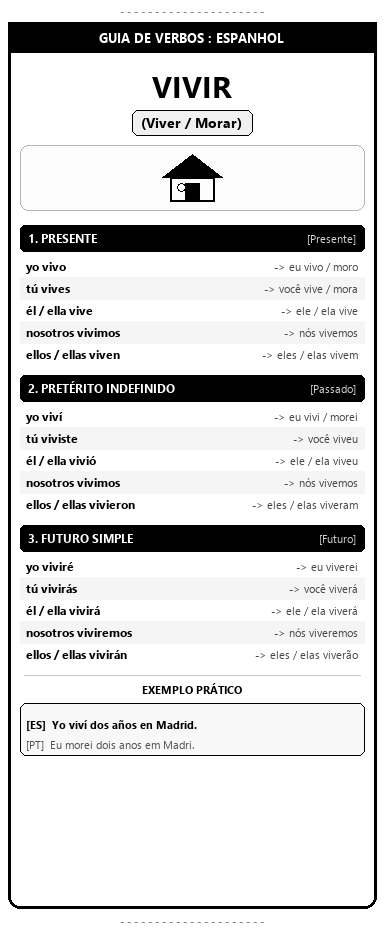
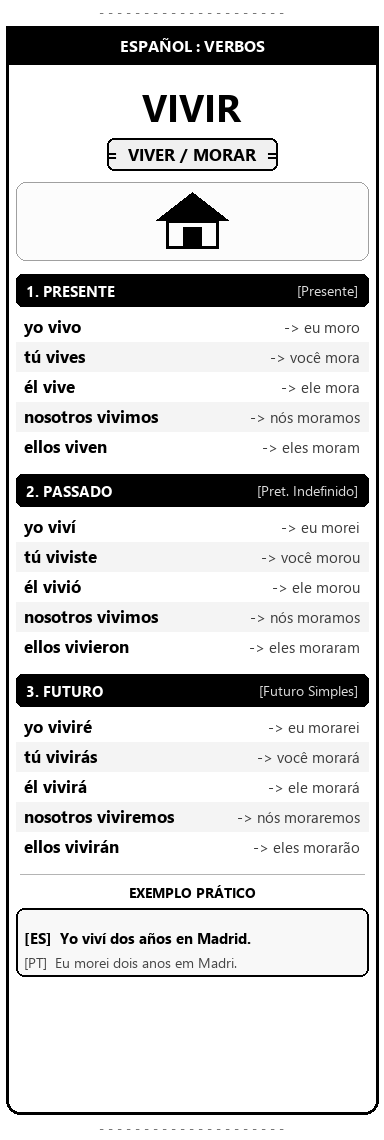
style: increase font sizes and boldness on verb strips for thermal legibility

Changed region(s): [[0.0, 0.0312, 1.0, 0.9978]]

diff --git a/generate_verb_strip.py b/generate_verb_strip.py
@@ -1,6 +1,7 @@
 """
 Gerador de Tiras de Estudo de Verbos em Espanhol para Phomemo M02
-384px de largura (203 DPI)
+Versão com FONTES GRANDES e alta legibilidade térmica.
+Largura: 384px (203 DPI)
 """
 
 from PIL import Image, ImageDraw, ImageFont
@@ -21,84 +22,84 @@ def get_font(size: int, bold: bool = False):
 VERBS_DATA = {
     "hablar": {
         "verb": "HABLAR",
-        "pt": "Falar",
+        "pt": "FALAR",
         "icon": "speech",
         "present": [
             ("yo hablo", "eu falo"),
             ("tú hablas", "você fala"),
-            ("él / ella habla", "ele / ela fala"),
+            ("él habla", "ele fala"),
             ("nosotros hablamos", "nós falamos"),
-            ("ellos / ellas hablan", "eles / elas falam")
+            ("ellos hablan", "eles falam")
         ],
         "past": [
             ("yo hablé", "eu falei"),
             ("tú hablaste", "você falou"),
-            ("él / ella habló", "ele / ela falou"),
+            ("él habló", "ele falou"),
             ("nosotros hablamos", "nós falamos"),
-            ("ellos / ellas hablaron", "eles / elas falaram")
+            ("ellos hablaron", "eles falaram")
         ],
         "future": [
             ("yo hablaré", "eu falarei"),
             ("tú hablarás", "você falará"),
-            ("él / ella hablará", "ele / ela falará"),
+            ("él hablará", "ele falará"),
             ("nosotros hablaremos", "nós falaremos"),
-            ("ellos / ellas hablarán", "eles / elas falarão")
+            ("ellos hablarán", "eles falarão")
         ],
-        "example_es": "Ayer hablé con María sobre eso.",
-        "example_pt": "Ontem falei com a Maria sobre isso."
+        "example_es": "Ayer hablé con María.",
+        "example_pt": "Ontem falei com a Maria."
     },
     "comer": {
         "verb": "COMER",
-        "pt": "Comer",
+        "pt": "COMER",
         "icon": "food",
         "present": [
             ("yo como", "eu como"),
             ("tú comes", "você come"),
-            ("él / ella come", "ele / ela come"),
+            ("él come", "ele come"),
             ("nosotros comemos", "nós comemos"),
-            ("ellos / ellas comen", "eles / elas comem")
+            ("ellos comen", "eles comem")
         ],
         "past": [
             ("yo comí", "eu comi"),
             ("tú comiste", "você comeu"),
-            ("él / ella comió", "ele / ela comeu"),
+            ("él comió", "ele comeu"),
             ("nosotros comimos", "nós comemos"),
-            ("ellos / ellas comieron", "eles / elas comeram")
+            ("ellos comieron", "eles comeram")
         ],
         "future": [
             ("yo comeré", "eu comerei"),
             ("tú comerás", "você comerá"),
-            ("él / ella comerá", "ele / ela comerá"),
+            ("él comerá", "ele comerá"),
             ("nosotros comeremos", "nós comeremos"),
-            ("ellos / ellas comerán", "eles / elas comerão")
+            ("ellos comerán", "eles comerão")
         ],
-        "example_es": "Mañana comeremos paella juntos.",
-        "example_pt": "Amanhã comeremos paella juntos."
+        "example_es": "Mañana comeremos paella.",
+        "example_pt": "Amanhã comeremos paella."
     },
     "vivir": {
         "verb": "VIVIR",
-        "pt": "Viver / Morar",
+        "pt": "VIVER / MORAR",
         "icon": "house",
         "present": [
-            ("yo vivo", "eu vivo / moro"),
-            ("tú vives", "você vive / mora"),
-            ("él / ella vive", "ele / ela vive"),
-            ("nosotros vivimos", "nós vivemos"),
-            ("ellos / ellas viven", "eles / elas vivem")
+            ("yo vivo", "eu moro"),
+            ("tú vives", "você mora"),
+            ("él vive", "ele mora"),
+            ("nosotros vivimos", "nós moramos"),
+            ("ellos viven", "eles moram")
         ],
         "past": [
-            ("yo viví", "eu vivi / morei"),
-            ("tú viviste", "você viveu"),
-            ("él / ella vivió", "ele / ela viveu"),
-            ("nosotros vivimos", "nós vivemos"),
-            ("ellos / ellas vivieron", "eles / elas viveram")
+            ("yo viví", "eu morei"),
+            ("tú viviste", "você morou"),
+            ("él vivió", "ele morou"),
+            ("nosotros vivimos", "nós moramos"),
+            ("ellos vivieron", "eles moraram")
         ],
         "future": [
-            ("yo viviré", "eu viverei"),
-            ("tú vivirás", "você viverá"),
-            ("él / ella vivirá", "ele / ela viverá"),
-            ("nosotros viviremos", "nós viveremos"),
-            ("ellos / ellas vivirán", "eles / elas viverão")
+            ("yo viviré", "eu morarei"),
+            ("tú vivirás", "você morará"),
+            ("él vivirá", "ele morará"),
+            ("nosotros viviremos", "nós moraremos"),
+            ("ellos vivirán", "eles morarão")
         ],
         "example_es": "Yo viví dos años en Madrid.",
         "example_pt": "Eu morei dois anos em Madri."
@@ -106,118 +107,113 @@ VERBS_DATA = {
 }
 
 def draw_speech_icon(draw: ImageDraw.ImageDraw, x: int, y: int):
-    # Balão 1 (fundo branco, borda preta)
-    draw.rounded_rectangle([(x, y), (x + 55, y + 36)], radius=8, outline=(0, 0, 0), width=2, fill=(255, 255, 255))
-    draw.polygon([(x + 12, y + 35), (x + 18, y + 44), (x + 24, y + 35)], fill=(255, 255, 255), outline=(0, 0, 0))
-    draw.line([(x + 13, y + 35), (x + 23, y + 35)], fill=(255, 255, 255), width=2)
-    # Linhas de texto no balão 1
-    draw.line([(x + 10, y + 13), (x + 45, y + 13)], fill=(0, 0, 0), width=2)
-    draw.line([(x + 10, y + 21), (x + 35, y + 21)], fill=(0, 0, 0), width=2)
+    # Balão 1
+    draw.rounded_rectangle([(x, y), (x + 60, y + 40)], radius=9, outline=(0, 0, 0), width=3, fill=(255, 255, 255))
+    draw.polygon([(x + 14, y + 38), (x + 20, y + 50), (x + 28, y + 38)], fill=(255, 255, 255), outline=(0, 0, 0))
+    draw.line([(x + 15, y + 38), (x + 27, y + 38)], fill=(255, 255, 255), width=3)
+    draw.line([(x + 12, y + 14), (x + 48, y + 14)], fill=(0, 0, 0), width=3)
+    draw.line([(x + 12, y + 24), (x + 38, y + 24)], fill=(0, 0, 0), width=3)
 
-    # Balão 2 (fundo preto sólido)
-    draw.rounded_rectangle([(x + 40, y + 14), (x + 85, y + 46)], radius=7, outline=(0, 0, 0), width=2, fill=(0, 0, 0))
-    draw.polygon([(x + 65, y + 45), (x + 72, y + 53), (x + 76, y + 45)], fill=(0, 0, 0))
-    # Linhas brancas no balão 2
-    draw.line([(x + 48, y + 25), (x + 77, y + 25)], fill=(255, 255, 255), width=2)
-    draw.line([(x + 48, y + 33), (x + 68, y + 33)], fill=(255, 255, 255), width=2)
+    # Balão 2
+    draw.rounded_rectangle([(x + 44, y + 15), (x + 95, y + 50)], radius=8, outline=(0, 0, 0), width=3, fill=(0, 0, 0))
+    draw.polygon([(x + 72, y + 49), (x + 80, y + 60), (x + 86, y + 49)], fill=(0, 0, 0))
+    draw.line([(x + 52, y + 26), (x + 86, y + 26)], fill=(255, 255, 255), width=3)
+    draw.line([(x + 52, y + 36), (x + 76, y + 36)], fill=(255, 255, 255), width=3)
 
 def draw_food_icon(draw: ImageDraw.ImageDraw, x: int, y: int):
-    cx, cy = x + 45, y + 28
-    draw.ellipse([(cx - 24, cy - 24), (cx + 24, cy + 24)], outline=(0, 0, 0), width=2)
-    draw.ellipse([(cx - 16, cy - 16), (cx + 16, cy + 16)], outline=(0, 0, 0), width=1)
+    cx, cy = x + 50, y + 32
+    draw.ellipse([(cx - 28, cy - 28), (cx + 28, cy + 28)], outline=(0, 0, 0), width=3)
+    draw.ellipse([(cx - 18, cy - 18), (cx + 18, cy + 18)], outline=(0, 0, 0), width=2)
     
-    gx = cx - 35
-    draw.line([(gx, cy - 20), (gx, cy + 20)], fill=(0, 0, 0), width=2)
-    draw.line([(gx - 4, cy - 20), (gx + 4, cy - 20)], fill=(0, 0, 0), width=2)
-    draw.line([(gx - 4, cy - 20), (gx - 4, cy - 10)], fill=(0, 0, 0), width=1)
-    draw.line([(gx + 4, cy - 20), (gx + 4, cy - 10)], fill=(0, 0, 0), width=1)
+    gx = cx - 42
+    draw.line([(gx, cy - 25), (gx, cy + 25)], fill=(0, 0, 0), width=3)
+    draw.line([(gx - 5, cy - 25), (gx + 5, cy - 25)], fill=(0, 0, 0), width=3)
+    draw.line([(gx - 5, cy - 25), (gx - 5, cy - 12)], fill=(0, 0, 0), width=2)
+    draw.line([(gx + 5, cy - 25), (gx + 5, cy - 12)], fill=(0, 0, 0), width=2)
     
-    fx = cx + 35
-    draw.line([(fx, cy - 20), (fx, cy + 20)], fill=(0, 0, 0), width=2)
-    draw.arc([(fx - 4, cy - 22), (fx + 4, cy - 6)], start=270, end=90, fill=(0, 0, 0), width=2)
+    fx = cx + 42
+    draw.line([(fx, cy - 25), (fx, cy + 25)], fill=(0, 0, 0), width=3)
+    draw.arc([(fx - 5, cy - 28), (fx + 5, cy - 8)], start=270, end=90, fill=(0, 0, 0), width=3)
 
 def draw_house_icon(draw: ImageDraw.ImageDraw, x: int, y: int):
-    cx, cy = x + 45, y + 28
-    # Telhado
-    draw.polygon([(cx, cy - 25), (cx - 30, cy - 2), (cx + 30, cy - 2)], fill=(0, 0, 0))
-    # Paredes
-    draw.rectangle([(cx - 22, cy - 2), (cx + 22, cy + 22)], outline=(0, 0, 0), width=2)
-    # Porta
-    draw.rectangle([(cx - 7, cy + 4), (cx + 7, cy + 22)], fill=(0, 0, 0))
-    # Coraçãozinho na porta / telhado
-    draw.ellipse([(cx - 15, cy + 4), (cx - 7, cy + 12)], outline=(0, 0, 0), width=1)
+    cx, cy = x + 50, y + 32
+    draw.polygon([(cx, cy - 30), (cx - 36, cy - 2), (cx + 36, cy - 2)], fill=(0, 0, 0))
+    draw.rectangle([(cx - 26, cy - 2), (cx + 26, cy + 26)], outline=(0, 0, 0), width=3)
+    draw.rectangle([(cx - 9, cy + 5), (cx + 9, cy + 26)], fill=(0, 0, 0))
 
 def generate_verb_strip(verb_key: str) -> Image.Image:
     data = VERBS_DATA[verb_key]
-    height = 930
+    height = 1140
     img = Image.new('RGB', (WIDTH, height), color=(255, 255, 255))
     draw = ImageDraw.Draw(img)
 
     # 1. Linha de corte superior
-    draw.text((WIDTH // 2, 10), "- - - - - - - - - - - - - - - - - - - - -", fill=(130, 130, 130), anchor="mm", font=get_font(11))
+    draw.text((WIDTH // 2, 12), "- - - - - - - - - - - - - - - - - - - - -", fill=(120, 120, 120), anchor="mm", font=get_font(13))
 
     # 2. Borda externa do cartão
-    draw.rounded_rectangle([(8, 22), (WIDTH - 8, height - 22)], radius=12, outline=(0, 0, 0), width=3)
+    draw.rounded_rectangle([(6, 26), (WIDTH - 6, height - 26)], radius=14, outline=(0, 0, 0), width=3)
 
-    # 3. Cabeçalho / Tag de idioma
-    draw.rectangle([(8, 22), (WIDTH - 8, 52)], fill=(0, 0, 0))
-    draw.text((WIDTH // 2, 37), "GUIA DE VERBOS : ESPANHOL", fill=(255, 255, 255), anchor="mm", font=get_font(13, bold=True))
+    # 3. Cabeçalho
+    draw.rectangle([(6, 26), (WIDTH - 6, 64)], fill=(0, 0, 0))
+    draw.text((WIDTH // 2, 45), "ESPAÑOL : VERBOS", fill=(255, 255, 255), anchor="mm", font=get_font(16, bold=True))
 
-    # 4. Verbo principal e tradução
-    draw.text((WIDTH // 2, 85), data["verb"], fill=(0, 0, 0), anchor="mm", font=get_font(30, bold=True))
+    # 4. Verbo principal BEM GRANDE
+    draw.text((WIDTH // 2, 106), data["verb"], fill=(0, 0, 0), anchor="mm", font=get_font(38, bold=True))
     
     # Tag de tradução PT-BR
-    trans_text = f"({data['pt']})"
-    draw.rounded_rectangle([(WIDTH // 2 - 60, 110), (WIDTH // 2 + 60, 135)], radius=6, outline=(0, 0, 0), width=1, fill=(240, 240, 240))
-    draw.text((WIDTH // 2, 122), trans_text, fill=(0, 0, 0), anchor="mm", font=get_font(14, bold=True))
+    trans_text = f"=  {data['pt']}  ="
+    draw.rounded_rectangle([(WIDTH // 2 - 85, 138), (WIDTH // 2 + 85, 170)], radius=7, outline=(0, 0, 0), width=2, fill=(240, 240, 240))
+    draw.text((WIDTH // 2, 154), trans_text, fill=(0, 0, 0), anchor="mm", font=get_font(17, bold=True))
 
     # 5. Ilustração
-    icon_box_y = 145
-    draw.rounded_rectangle([(20, icon_box_y), (WIDTH - 20, icon_box_y + 65)], radius=8, outline=(180, 180, 180), width=1, fill=(252, 252, 252))
+    icon_box_y = 182
+    draw.rounded_rectangle([(16, icon_box_y), (WIDTH - 16, icon_box_y + 78)], radius=10, outline=(160, 160, 160), width=1, fill=(252, 252, 252))
     if data["icon"] == "speech":
-        draw_speech_icon(draw, WIDTH // 2 - 45, icon_box_y + 6)
+        draw_speech_icon(draw, WIDTH // 2 - 50, icon_box_y + 8)
     elif data["icon"] == "food":
-        draw_food_icon(draw, WIDTH // 2 - 45, icon_box_y + 6)
+        draw_food_icon(draw, WIDTH // 2 - 50, icon_box_y + 8)
     elif data["icon"] == "house":
-        draw_house_icon(draw, WIDTH // 2 - 45, icon_box_y + 6)
+        draw_house_icon(draw, WIDTH // 2 - 50, icon_box_y + 8)
 
-    # 6. Blocos de Conjugação (PRESENTE, PASSADO, FUTURO)
+    # 6. Blocos de Conjugação com FONTES MAIORES
     def render_tense_block(start_y: int, title_es: str, title_pt: str, conjugations: list) -> int:
         # Header da seção
-        draw.rounded_rectangle([(20, start_y), (WIDTH - 20, start_y + 26)], radius=5, fill=(0, 0, 0))
-        draw.text((28, start_y + 13), title_es, fill=(255, 255, 255), anchor="lm", font=get_font(12, bold=True))
-        draw.text((WIDTH - 28, start_y + 13), f"[{title_pt}]", fill=(210, 210, 210), anchor="rm", font=get_font(11))
+        draw.rounded_rectangle([(16, start_y), (WIDTH - 16, start_y + 32)], radius=6, fill=(0, 0, 0))
+        draw.text((26, start_y + 16), title_es, fill=(255, 255, 255), anchor="lm", font=get_font(15, bold=True))
+        draw.text((WIDTH - 26, start_y + 16), f"[{title_pt}]", fill=(220, 220, 220), anchor="rm", font=get_font(14))
         
-        cur_y = start_y + 32
+        cur_y = start_y + 40
         for idx, (es, pt) in enumerate(conjugations):
             if idx % 2 == 1:
-                draw.rectangle([(20, cur_y - 2), (WIDTH - 20, cur_y + 20)], fill=(245, 245, 245))
+                draw.rectangle([(16, cur_y - 2), (WIDTH - 16, cur_y + 27)], fill=(244, 244, 244))
             
-            draw.text((26, cur_y + 9), es, fill=(0, 0, 0), anchor="lm", font=get_font(12, bold=True))
-            draw.text((WIDTH - 26, cur_y + 9), f"-> {pt}", fill=(70, 70, 70), anchor="rm", font=get_font(11))
-            cur_y += 22
-        return cur_y + 8
+            # Espanhol (tamanho 17pt bold)
+            draw.text((24, cur_y + 12), es, fill=(0, 0, 0), anchor="lm", font=get_font(17, bold=True))
+            # Português (tamanho 15pt regular)
+            draw.text((WIDTH - 24, cur_y + 12), f"-> {pt}", fill=(60, 60, 60), anchor="rm", font=get_font(15))
+            cur_y += 30
+        return cur_y + 10
 
     # Presente
-    y_next = render_tense_block(225, "1. PRESENTE", "Presente", data["present"])
+    y_next = render_tense_block(274, "1. PRESENTE", "Presente", data["present"])
     # Passado
-    y_next = render_tense_block(y_next, "2. PRETÉRITO INDEFINIDO", "Passado", data["past"])
+    y_next = render_tense_block(y_next, "2. PASSADO", "Pret. Indefinido", data["past"])
     # Futuro
-    y_next = render_tense_block(y_next, "3. FUTURO SIMPLE", "Futuro", data["future"])
+    y_next = render_tense_block(y_next, "3. FUTURO", "Futuro Simples", data["future"])
 
     # 7. Frase de Exemplo no cotidiano
-    draw.line([(24, y_next), (WIDTH - 24, y_next)], fill=(200, 200, 200), width=1)
+    draw.line([(20, y_next), (WIDTH - 20, y_next)], fill=(180, 180, 180), width=1)
     y_next += 8
-    draw.text((WIDTH // 2, y_next + 6), "EXEMPLO PRÁTICO", fill=(0, 0, 0), anchor="mm", font=get_font(11, bold=True))
-    y_next += 20
+    draw.text((WIDTH // 2, y_next + 10), "EXEMPLO PRÁTICO", fill=(0, 0, 0), anchor="mm", font=get_font(14, bold=True))
+    y_next += 26
     
-    # Caixa do exemplo
-    draw.rounded_rectangle([(20, y_next), (WIDTH - 20, y_next + 52)], radius=6, outline=(0, 0, 0), width=1, fill=(248, 248, 248))
-    draw.text((26, y_next + 14), f"[ES]  {data['example_es']}", fill=(0, 0, 0), font=get_font(11, bold=True))
-    draw.text((26, y_next + 34), f"[PT]  {data['example_pt']}", fill=(80, 80, 80), font=get_font(11))
+    # Caixa do exemplo ampliada
+    draw.rounded_rectangle([(16, y_next), (WIDTH - 16, y_next + 68)], radius=8, outline=(0, 0, 0), width=2, fill=(248, 248, 248))
+    draw.text((24, y_next + 19), f"[ES]  {data['example_es']}", fill=(0, 0, 0), font=get_font(15, bold=True))
+    draw.text((24, y_next + 44), f"[PT]  {data['example_pt']}", fill=(70, 70, 70), font=get_font(14))
 
     # 8. Linha de corte inferior
-    draw.text((WIDTH // 2, height - 10), "- - - - - - - - - - - - - - - - - - - - -", fill=(130, 130, 130), anchor="mm", font=get_font(11))
+    draw.text((WIDTH // 2, height - 12), "- - - - - - - - - - - - - - - - - - - - -", fill=(120, 120, 120), anchor="mm", font=get_font(13))
 
     return img
 
